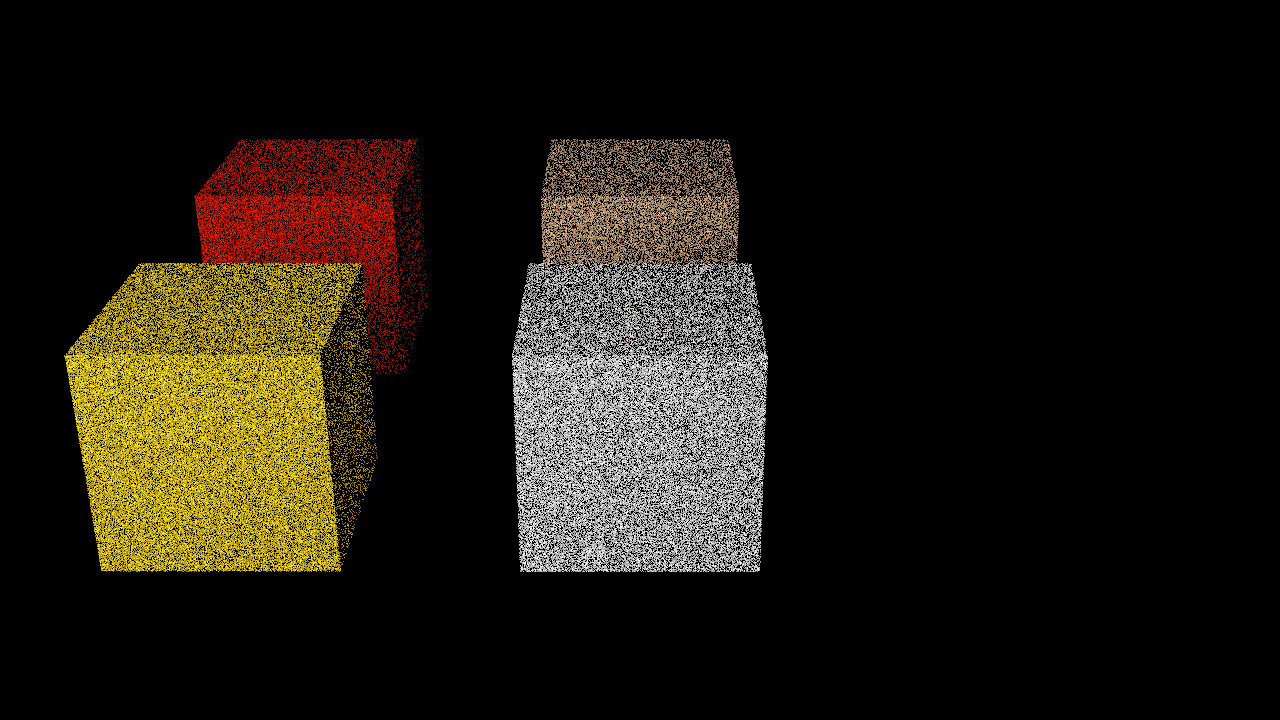
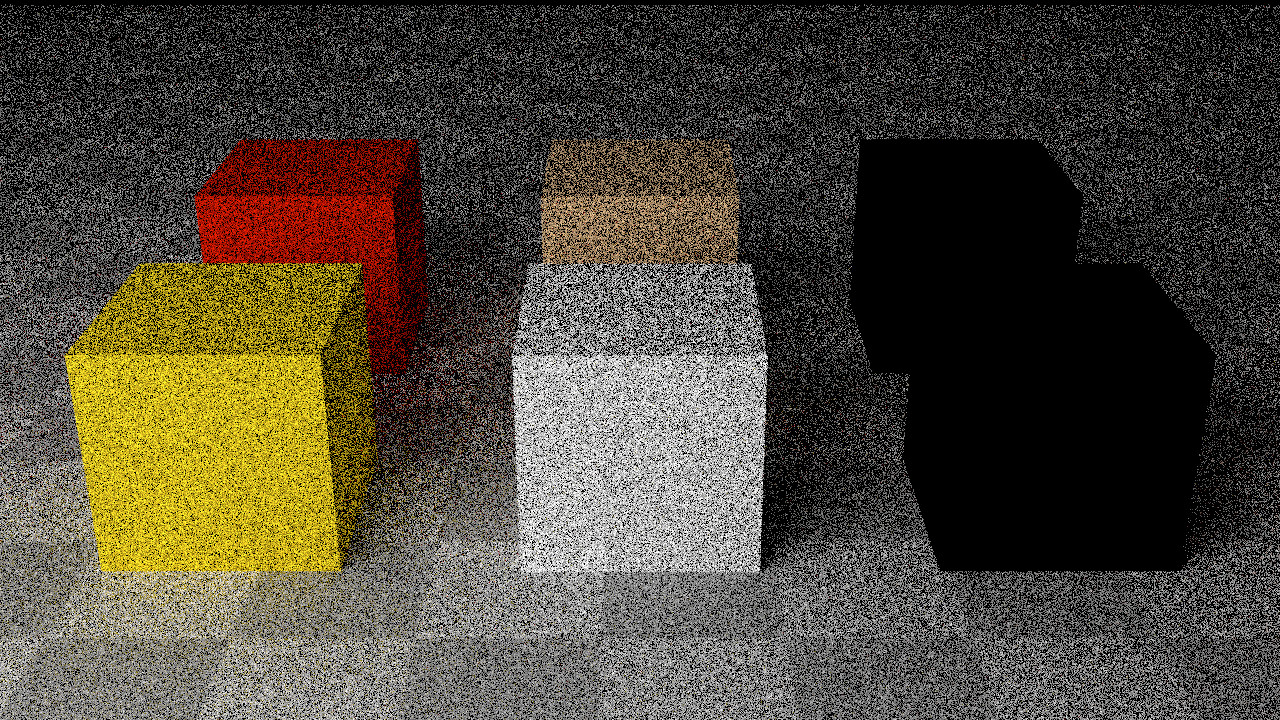
added basic texture support - gpu version

diff --git a/apps/VulkanPathTracePrototype.cpp b/apps/VulkanPathTracePrototype.cpp
@@ -22,7 +22,6 @@ struct CameraUniformBufferObject {
 };
 struct MaterialUniformBufferObject {
   alignas(4) Vec3f emission;
-  alignas(4) Vec3f albedo;
 };
 
 class RaytracerPrototype {
@@ -83,6 +82,8 @@ public:
     for (std::size_t geometryID : geometryIDs) {
       faceCount += scene.getTriangleCount(geometryID);
     }
+    std::vector<Vec2f> textureCoordinates;
+    textureCoordinates.reserve(faceCount * 3);
     std::vector<uint32_t> indices;
     indices.reserve(faceCount * 3);
     std::vector<uint32_t> materialIndices;
@@ -97,18 +98,54 @@ public:
 
       MaterialUniformBufferObject material;
       material.emission = scene.getMaterialEmission(materialIdx);
-      material.albedo = Vec3f(0.0f, 0.0f, 0.0f);
+
+      Image3f constantImage(1, 1);
+      constantImage(0, 0) = Vec3f::Zero();
+      Image3f const * albedoImage3 = &constantImage;
       if (material.emission == Vec3f::Zero()) {
         if (principledBRDF != nullptr) {
           ITextureMap3f& albedoMap = principledBRDF->getAlbedo();
           ConstantTexture3f* albedoConstant = dynamic_cast<ConstantTexture3f*>(&albedoMap);
+          Texture3f* albedoTexture = dynamic_cast<Texture3f*>(&albedoMap);
+
           if (albedoConstant != nullptr) {
-            material.albedo = albedoConstant->getValue();
+            constantImage(0, 0) = albedoConstant->getValue();
+            albedoImage3 = &constantImage;
+          }
+          else if (albedoTexture != nullptr) {
+            albedoImage3 = &albedoTexture->getImage();
+          }
+          else {
+            throw std::runtime_error("unsupported/not implemented input texture");
           }
         }
       }
 
       materials.push_back(material);
+
+      Image4f albedoImage4 = addAlphaChannel(*albedoImage3);
+
+      std::size_t albedoImageByteCount = sizeof(float) * 4 * albedoImage4.getWidth() * albedoImage4.getHeight();
+      albedoImageBuffers.emplace_back(std::make_unique<VulkanBuffer>(deviceAndQueue, albedoImageByteCount, VK_BUFFER_USAGE_TRANSFER_SRC_BIT, VK_MEMORY_PROPERTY_HOST_VISIBLE_BIT | VK_MEMORY_PROPERTY_HOST_COHERENT_BIT));
+      VulkanBuffer& albedoImageBuffer = *albedoImageBuffers.back();
+      
+      albedoImageBuffer.write(albedoImage4.data(), albedoImageByteCount);
+
+      albedoImages.emplace_back(std::make_unique<VulkanImage>(
+        deviceAndQueue,
+        albedoImage4.getWidth(),
+        albedoImage4.getHeight(),
+        VK_FORMAT_R32G32B32A32_SFLOAT,
+        VK_IMAGE_TILING_OPTIMAL,
+        VK_IMAGE_USAGE_TRANSFER_DST_BIT | VK_IMAGE_USAGE_SAMPLED_BIT,
+        VK_MEMORY_PROPERTY_DEVICE_LOCAL_BIT));
+
+      VulkanImage& albedoImageGPU = *albedoImages.back();
+
+      deviceAndQueue->transitionImageLayout(albedoImageGPU, VK_IMAGE_LAYOUT_TRANSFER_DST_OPTIMAL);
+      deviceAndQueue->copyBufferToImage(albedoImageBuffer, albedoImageGPU);
+
+      deviceAndQueue->transitionImageLayout(albedoImageGPU, VK_IMAGE_LAYOUT_GENERAL);
     }
 
     std::size_t faceOffset = 0;
@@ -122,6 +159,14 @@ public:
         indices.push_back(tri[2]);
 
         materialIndices.push_back(scene.getMaterialIndex(geometryID, primIndex));
+
+        std::array<Vec2f, 3> uv = { Vec2f::Zero(), Vec2f::Zero(), Vec2f::Zero() };
+        std::optional< std::array<Vec2f, 3> > uvOptional = scene.getTriangleUV(geometryID, primIndex);
+        if (uvOptional.has_value()) uv = uvOptional.value();
+
+        textureCoordinates.push_back(uv[0]);
+        textureCoordinates.push_back(uv[1]);
+        textureCoordinates.push_back(uv[2]);
       }
       faceOffset += geometryFaceCount;
     }
@@ -141,6 +186,7 @@ public:
     }
 
     std::size_t verticesByteCount = sizeof(decltype(vertices)::value_type) * vertices.size();
+    std::size_t textureCoordinatesByteCount = sizeof(decltype(textureCoordinates)::value_type) * textureCoordinates.size();
     std::size_t indicesByteCount = sizeof(decltype(indices)::value_type) * indices.size();
     std::size_t materialIndicesByteCount = sizeof(decltype(materialIndices)::value_type) * materialIndices.size();
     std::size_t materialsByteCount = sizeof(decltype(materials)::value_type) * materials.size();
@@ -148,12 +194,19 @@ public:
 
     const VkBufferUsageFlags bufferUsageFlags =
       VK_BUFFER_USAGE_SHADER_DEVICE_ADDRESS_BIT
+      | VK_BUFFER_USAGE_STORAGE_BUFFER_BIT;
+    const VkBufferUsageFlags accelerationStructureBufferUsageFlags =
+      VK_BUFFER_USAGE_SHADER_DEVICE_ADDRESS_BIT
       | VK_BUFFER_USAGE_STORAGE_BUFFER_BIT
       | VK_BUFFER_USAGE_ACCELERATION_STRUCTURE_BUILD_INPUT_READ_ONLY_BIT_KHR;
-    vertexBuffer = std::make_unique<VulkanBuffer>(deviceAndQueue, verticesByteCount, bufferUsageFlags, VK_MEMORY_PROPERTY_DEVICE_LOCAL_BIT | VK_MEMORY_PROPERTY_HOST_VISIBLE_BIT);
+
+    vertexBuffer = std::make_unique<VulkanBuffer>(deviceAndQueue, verticesByteCount, accelerationStructureBufferUsageFlags, VK_MEMORY_PROPERTY_DEVICE_LOCAL_BIT | VK_MEMORY_PROPERTY_HOST_VISIBLE_BIT);
     vertexBuffer->write((void*)vertices.data(), verticesByteCount);
 
-    indexBuffer = std::make_unique<VulkanBuffer>(deviceAndQueue, indicesByteCount, bufferUsageFlags, VK_MEMORY_PROPERTY_DEVICE_LOCAL_BIT | VK_MEMORY_PROPERTY_HOST_VISIBLE_BIT);
+    textureCoordinatesBuffer = std::make_unique<VulkanBuffer>(deviceAndQueue, textureCoordinatesByteCount, VK_BUFFER_USAGE_STORAGE_BUFFER_BIT, VK_MEMORY_PROPERTY_DEVICE_LOCAL_BIT | VK_MEMORY_PROPERTY_HOST_VISIBLE_BIT);
+    textureCoordinatesBuffer->write((void*)textureCoordinates.data(), textureCoordinatesByteCount);
+
+    indexBuffer = std::make_unique<VulkanBuffer>(deviceAndQueue, indicesByteCount, accelerationStructureBufferUsageFlags, VK_MEMORY_PROPERTY_DEVICE_LOCAL_BIT | VK_MEMORY_PROPERTY_HOST_VISIBLE_BIT);
     indexBuffer->write((void*)indices.data(), indicesByteCount);
 
     materialIndicesBuffer = std::make_unique<VulkanBuffer>(deviceAndQueue, materialIndicesByteCount, VK_BUFFER_USAGE_STORAGE_BUFFER_BIT, VK_MEMORY_PROPERTY_DEVICE_LOCAL_BIT | VK_MEMORY_PROPERTY_HOST_VISIBLE_BIT);
@@ -356,9 +409,11 @@ public:
     std::vector<VkDescriptorPoolSize> poolSizes = {
       vks::initializers::descriptorPoolSize(VK_DESCRIPTOR_TYPE_ACCELERATION_STRUCTURE_KHR, 1),  // tlas
       vks::initializers::descriptorPoolSize(VK_DESCRIPTOR_TYPE_STORAGE_BUFFER, 1), // Vertices
+      vks::initializers::descriptorPoolSize(VK_DESCRIPTOR_TYPE_STORAGE_BUFFER, 1), // TextureCoordinates
       vks::initializers::descriptorPoolSize(VK_DESCRIPTOR_TYPE_STORAGE_BUFFER, 1), // Indices
       vks::initializers::descriptorPoolSize(VK_DESCRIPTOR_TYPE_STORAGE_BUFFER, 1), // MaterialIndices
       vks::initializers::descriptorPoolSize(VK_DESCRIPTOR_TYPE_STORAGE_BUFFER, 1), // Materials
+      vks::initializers::descriptorPoolSize(VK_DESCRIPTOR_TYPE_COMBINED_IMAGE_SAMPLER, albedoImages.size()), // AlbedoImages
       vks::initializers::descriptorPoolSize(VK_DESCRIPTOR_TYPE_STORAGE_BUFFER, 1), // RandomInputState
       vks::initializers::descriptorPoolSize(VK_DESCRIPTOR_TYPE_UNIFORM_BUFFER, 1), // Camera Input
       vks::initializers::descriptorPoolSize(VK_DESCRIPTOR_TYPE_STORAGE_IMAGE, 1), // outputImage
@@ -368,19 +423,19 @@ public:
     VkDescriptorPoolCreateInfo descriptorPoolCreateInfo = vks::initializers::descriptorPoolCreateInfo(poolSizes, 1);
     VK_CHECK_RESULT(vkCreateDescriptorPool(logicalDevice, &descriptorPoolCreateInfo, nullptr, &descriptorPool));
 
-    int bindingCounter = 0;
-
     std::vector<VkDescriptorSetLayoutBinding> setLayoutBindings = {
       vks::initializers::descriptorSetLayoutBinding(VK_DESCRIPTOR_TYPE_ACCELERATION_STRUCTURE_KHR, VK_SHADER_STAGE_COMPUTE_BIT, 0), // tlas
       vks::initializers::descriptorSetLayoutBinding(VK_DESCRIPTOR_TYPE_STORAGE_BUFFER, VK_SHADER_STAGE_COMPUTE_BIT, 1),  // Vertices
-      vks::initializers::descriptorSetLayoutBinding(VK_DESCRIPTOR_TYPE_STORAGE_BUFFER, VK_SHADER_STAGE_COMPUTE_BIT, 2), // Indices
-      vks::initializers::descriptorSetLayoutBinding(VK_DESCRIPTOR_TYPE_STORAGE_BUFFER, VK_SHADER_STAGE_COMPUTE_BIT, 3), // MaterialIndices
-      vks::initializers::descriptorSetLayoutBinding(VK_DESCRIPTOR_TYPE_STORAGE_BUFFER, VK_SHADER_STAGE_COMPUTE_BIT, 4), // Materials
-      vks::initializers::descriptorSetLayoutBinding(VK_DESCRIPTOR_TYPE_STORAGE_BUFFER, VK_SHADER_STAGE_COMPUTE_BIT, 5), // RandomInputState
-      vks::initializers::descriptorSetLayoutBinding(VK_DESCRIPTOR_TYPE_UNIFORM_BUFFER, VK_SHADER_STAGE_COMPUTE_BIT, 6), // Camera Input
-      vks::initializers::descriptorSetLayoutBinding(VK_DESCRIPTOR_TYPE_STORAGE_IMAGE, VK_SHADER_STAGE_COMPUTE_BIT, 7), // outputImage
-      vks::initializers::descriptorSetLayoutBinding(VK_DESCRIPTOR_TYPE_STORAGE_IMAGE, VK_SHADER_STAGE_COMPUTE_BIT, 8), // outputNormal
-      vks::initializers::descriptorSetLayoutBinding(VK_DESCRIPTOR_TYPE_STORAGE_IMAGE, VK_SHADER_STAGE_COMPUTE_BIT, 9), // outputAlbedo
+      vks::initializers::descriptorSetLayoutBinding(VK_DESCRIPTOR_TYPE_STORAGE_BUFFER, VK_SHADER_STAGE_COMPUTE_BIT, 2),  // TextureCoordinates
+      vks::initializers::descriptorSetLayoutBinding(VK_DESCRIPTOR_TYPE_STORAGE_BUFFER, VK_SHADER_STAGE_COMPUTE_BIT, 3), // Indices
+      vks::initializers::descriptorSetLayoutBinding(VK_DESCRIPTOR_TYPE_STORAGE_BUFFER, VK_SHADER_STAGE_COMPUTE_BIT, 4), // MaterialIndices
+      vks::initializers::descriptorSetLayoutBinding(VK_DESCRIPTOR_TYPE_STORAGE_BUFFER, VK_SHADER_STAGE_COMPUTE_BIT, 5), // Materials
+      vks::initializers::descriptorSetLayoutBinding(VK_DESCRIPTOR_TYPE_COMBINED_IMAGE_SAMPLER, VK_SHADER_STAGE_COMPUTE_BIT, 6, albedoImages.size()), // AlbedoImages
+      vks::initializers::descriptorSetLayoutBinding(VK_DESCRIPTOR_TYPE_STORAGE_BUFFER, VK_SHADER_STAGE_COMPUTE_BIT, 7), // RandomInputState
+      vks::initializers::descriptorSetLayoutBinding(VK_DESCRIPTOR_TYPE_UNIFORM_BUFFER, VK_SHADER_STAGE_COMPUTE_BIT, 8), // Camera Input
+      vks::initializers::descriptorSetLayoutBinding(VK_DESCRIPTOR_TYPE_STORAGE_IMAGE, VK_SHADER_STAGE_COMPUTE_BIT, 9), // outputImage
+      vks::initializers::descriptorSetLayoutBinding(VK_DESCRIPTOR_TYPE_STORAGE_IMAGE, VK_SHADER_STAGE_COMPUTE_BIT, 10), // outputNormal
+      vks::initializers::descriptorSetLayoutBinding(VK_DESCRIPTOR_TYPE_STORAGE_IMAGE, VK_SHADER_STAGE_COMPUTE_BIT, 11), // outputAlbedo
     };
 
     VkDescriptorSetLayoutCreateInfo descriptorLayout = vks::initializers::descriptorSetLayoutCreateInfo(setLayoutBindings);
@@ -395,25 +450,34 @@ public:
     writeDescriptorSetAccelerationStructureKHR.pAccelerationStructures = &accelerationStructureTopLevel;
 
     VkDescriptorBufferInfo vertexDescriptorBufferInfo = vertexBuffer->descriptorBufferInfo();
+    VkDescriptorBufferInfo textureCoordinatesDescriptorBufferInfo = textureCoordinatesBuffer->descriptorBufferInfo();
     VkDescriptorBufferInfo indexDescriptorBufferInfo = indexBuffer->descriptorBufferInfo();
     VkDescriptorBufferInfo materialIndicesDescriptorBufferInfo = materialIndicesBuffer->descriptorBufferInfo();
     VkDescriptorBufferInfo materialDescriptorBufferInfo = materialBuffer->descriptorBufferInfo();
+
+    std::vector<VkDescriptorImageInfo> albedoImagesDescriptorBufferInfos(albedoImages.size());
+    for (size_t i = 0; i < albedoImages.size(); i++) {
+      albedoImagesDescriptorBufferInfos[i] = albedoImages[i]->getDescriptor();
+    }
+
     VkDescriptorBufferInfo randomInputStateDescriptorBufferInfo = randomInputStateBuffer->descriptorBufferInfo();
     VkDescriptorBufferInfo cameraDescriptorBufferInfo = cameraUniformBuffer->descriptorBufferInfo();
 
     std::vector<VkWriteDescriptorSet> computeWriteDescriptorSets = {
       writeDescriptorSet(descriptorSet, VK_DESCRIPTOR_TYPE_ACCELERATION_STRUCTURE_KHR, 0, &writeDescriptorSetAccelerationStructureKHR), // tlas
       vks::initializers::writeDescriptorSet(descriptorSet, VK_DESCRIPTOR_TYPE_STORAGE_BUFFER, 1, &vertexDescriptorBufferInfo),  // Vertices
-      vks::initializers::writeDescriptorSet(descriptorSet, VK_DESCRIPTOR_TYPE_STORAGE_BUFFER, 2, &indexDescriptorBufferInfo),  // Indices
-      vks::initializers::writeDescriptorSet(descriptorSet, VK_DESCRIPTOR_TYPE_STORAGE_BUFFER, 3, &materialIndicesDescriptorBufferInfo), // MaterialIndices
-      vks::initializers::writeDescriptorSet(descriptorSet, VK_DESCRIPTOR_TYPE_STORAGE_BUFFER, 4, &materialDescriptorBufferInfo), // Materials
-      vks::initializers::writeDescriptorSet(descriptorSet, VK_DESCRIPTOR_TYPE_STORAGE_BUFFER, 5, &randomInputStateDescriptorBufferInfo), // RandomInputState
-      vks::initializers::writeDescriptorSet(descriptorSet, VK_DESCRIPTOR_TYPE_UNIFORM_BUFFER, 6, &cameraDescriptorBufferInfo), // Camera Input
-      vks::initializers::writeDescriptorSet(descriptorSet, VK_DESCRIPTOR_TYPE_STORAGE_IMAGE, 7, &resultImage.getDescriptor()), // outputImage
-      vks::initializers::writeDescriptorSet(descriptorSet, VK_DESCRIPTOR_TYPE_STORAGE_IMAGE, 8, &normalImage.getDescriptor()), // outputNormal
-      vks::initializers::writeDescriptorSet(descriptorSet, VK_DESCRIPTOR_TYPE_STORAGE_IMAGE, 9, &albedoImage.getDescriptor()), // outputAlbedo
+      vks::initializers::writeDescriptorSet(descriptorSet, VK_DESCRIPTOR_TYPE_STORAGE_BUFFER, 2, &textureCoordinatesDescriptorBufferInfo),  // TextureCoordinates
+      vks::initializers::writeDescriptorSet(descriptorSet, VK_DESCRIPTOR_TYPE_STORAGE_BUFFER, 3, &indexDescriptorBufferInfo),  // Indices
+      vks::initializers::writeDescriptorSet(descriptorSet, VK_DESCRIPTOR_TYPE_STORAGE_BUFFER, 4, &materialIndicesDescriptorBufferInfo), // MaterialIndices
+      vks::initializers::writeDescriptorSet(descriptorSet, VK_DESCRIPTOR_TYPE_STORAGE_BUFFER, 5, &materialDescriptorBufferInfo), // Materials
+      vks::initializers::writeDescriptorSet(descriptorSet, VK_DESCRIPTOR_TYPE_COMBINED_IMAGE_SAMPLER, 6, albedoImagesDescriptorBufferInfos.data(), albedoImagesDescriptorBufferInfos.size()), // AlbedoImages
+      vks::initializers::writeDescriptorSet(descriptorSet, VK_DESCRIPTOR_TYPE_STORAGE_BUFFER, 7, &randomInputStateDescriptorBufferInfo), // RandomInputState
+      vks::initializers::writeDescriptorSet(descriptorSet, VK_DESCRIPTOR_TYPE_UNIFORM_BUFFER, 8, &cameraDescriptorBufferInfo), // Camera Input
+      vks::initializers::writeDescriptorSet(descriptorSet, VK_DESCRIPTOR_TYPE_STORAGE_IMAGE, 9, &resultImage.getDescriptor()), // outputImage
+      vks::initializers::writeDescriptorSet(descriptorSet, VK_DESCRIPTOR_TYPE_STORAGE_IMAGE, 10, &normalImage.getDescriptor()), // outputNormal
+      vks::initializers::writeDescriptorSet(descriptorSet, VK_DESCRIPTOR_TYPE_STORAGE_IMAGE, 11, &albedoImage.getDescriptor()), // outputAlbedo
     };
-    vkUpdateDescriptorSets(logicalDevice, computeWriteDescriptorSets.size(), computeWriteDescriptorSets.data(), 0, NULL);
+    vkUpdateDescriptorSets(logicalDevice, computeWriteDescriptorSets.size(), computeWriteDescriptorSets.data(), 0, nullptr);
 
     VkPipelineLayoutCreateInfo pPipelineLayoutCreateInfo = vks::initializers::pipelineLayoutCreateInfo(&descriptorSetLayout, 1);
 
@@ -532,10 +596,13 @@ private:
   std::unique_ptr<VulkanBuffer> vertexBuffer;
   std::size_t vertexCount;
   std::size_t faceCount;
+  std::unique_ptr<VulkanBuffer> textureCoordinatesBuffer;
   std::unique_ptr<VulkanBuffer> indexBuffer;
   std::unique_ptr<VulkanBuffer> materialIndicesBuffer;
   std::unique_ptr<VulkanBuffer> materialBuffer;
   std::unique_ptr<VulkanBuffer> randomInputStateBuffer;
+  std::vector<std::unique_ptr<VulkanBuffer> > albedoImageBuffers;
+  std::vector<std::unique_ptr<VulkanImage> > albedoImages;
 
   std::unique_ptr<VulkanBuffer> cameraUniformBuffer;
 

diff --git a/include/Hasty/Vulkan.h b/include/Hasty/Vulkan.h
@@ -254,11 +254,13 @@ public:
     VkPhysicalDeviceRayQueryFeaturesKHR rayQueryFeatures{ VK_STRUCTURE_TYPE_PHYSICAL_DEVICE_RAY_QUERY_FEATURES_KHR };
     VkPhysicalDeviceAccelerationStructureFeaturesKHR accelerationStructureFeaturesKHR{ VK_STRUCTURE_TYPE_PHYSICAL_DEVICE_ACCELERATION_STRUCTURE_FEATURES_KHR };
     VkPhysicalDeviceScalarBlockLayoutFeatures scalarBlockLayoutFeatures{ VK_STRUCTURE_TYPE_PHYSICAL_DEVICE_SCALAR_BLOCK_LAYOUT_FEATURES };
+    VkPhysicalDeviceDescriptorIndexingFeatures descriptorIndexingFeatures{ VK_STRUCTURE_TYPE_PHYSICAL_DEVICE_DESCRIPTOR_INDEXING_FEATURES };
 
     features2.pNext = &bufferDeviceAddressFeature;
     bufferDeviceAddressFeature.pNext = &rayQueryFeatures;
     rayQueryFeatures.pNext = &accelerationStructureFeaturesKHR;
     accelerationStructureFeaturesKHR.pNext = &scalarBlockLayoutFeatures;
+    scalarBlockLayoutFeatures.pNext = &descriptorIndexingFeatures;
     vkGetPhysicalDeviceFeatures2(physicalDevice, &features2);
 
     if (bufferDeviceAddressFeature.bufferDeviceAddress == VK_FALSE) {
@@ -272,6 +274,9 @@ public:
     }
     if (scalarBlockLayoutFeatures.scalarBlockLayout == VK_FALSE) {
       throw std::runtime_error("gpu does not support required feature: scalarBlockLayout");
+    }
+    if (descriptorIndexingFeatures.runtimeDescriptorArray == VK_FALSE) {
+      throw std::runtime_error("gpu does not support required feature: runtimeDescriptorArray");
     }
 
     std::vector<const char*> enabledExtensions = { {

diff --git a/include/Hasty/Scene.h b/include/Hasty/Scene.h
@@ -91,6 +91,9 @@ public:
   const std::vector<float>& getVertices() const;
   std::size_t getTriangleCount(std::size_t geomID) const;
   std::array<int, 3> getTriangleVertexIndices(std::size_t geomID, std::size_t primID) const;
+  std::optional< std::array<Vec2f, 3> > getTriangleUV(std::size_t geomID, std::size_t primID) const {
+    return collectTriangleUV(reader, geomID, primID);
+  }
   std::array<Vec3f, 3> collectTriangle(std::size_t geomID, std::size_t primID) const;
   std::array<Vec3f, 3> collectTriangleNormals(std::size_t geomID, std::size_t primID) const;
   Vec3f getMaterialEmission(uint32_t materialIndex) const;
